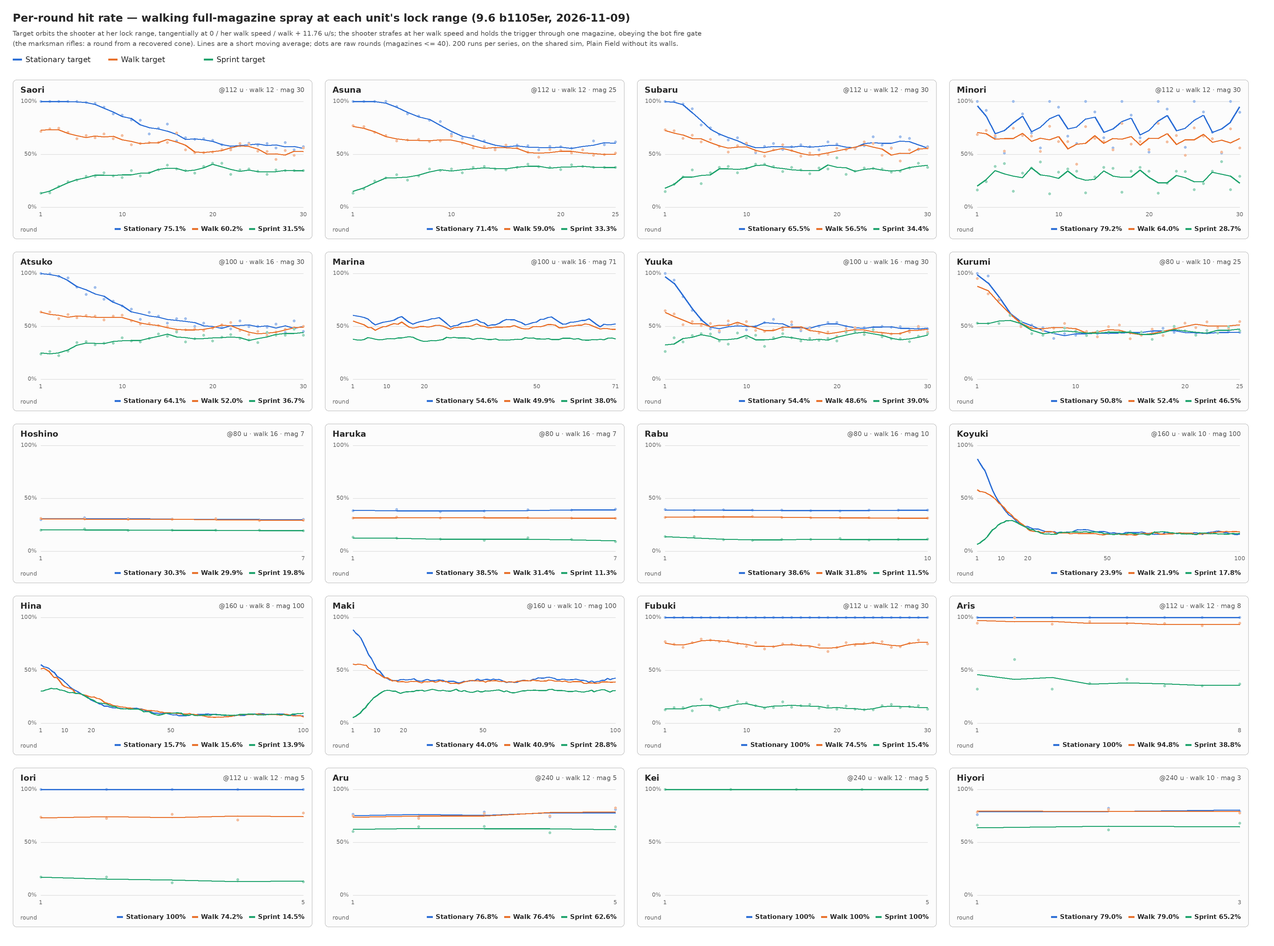
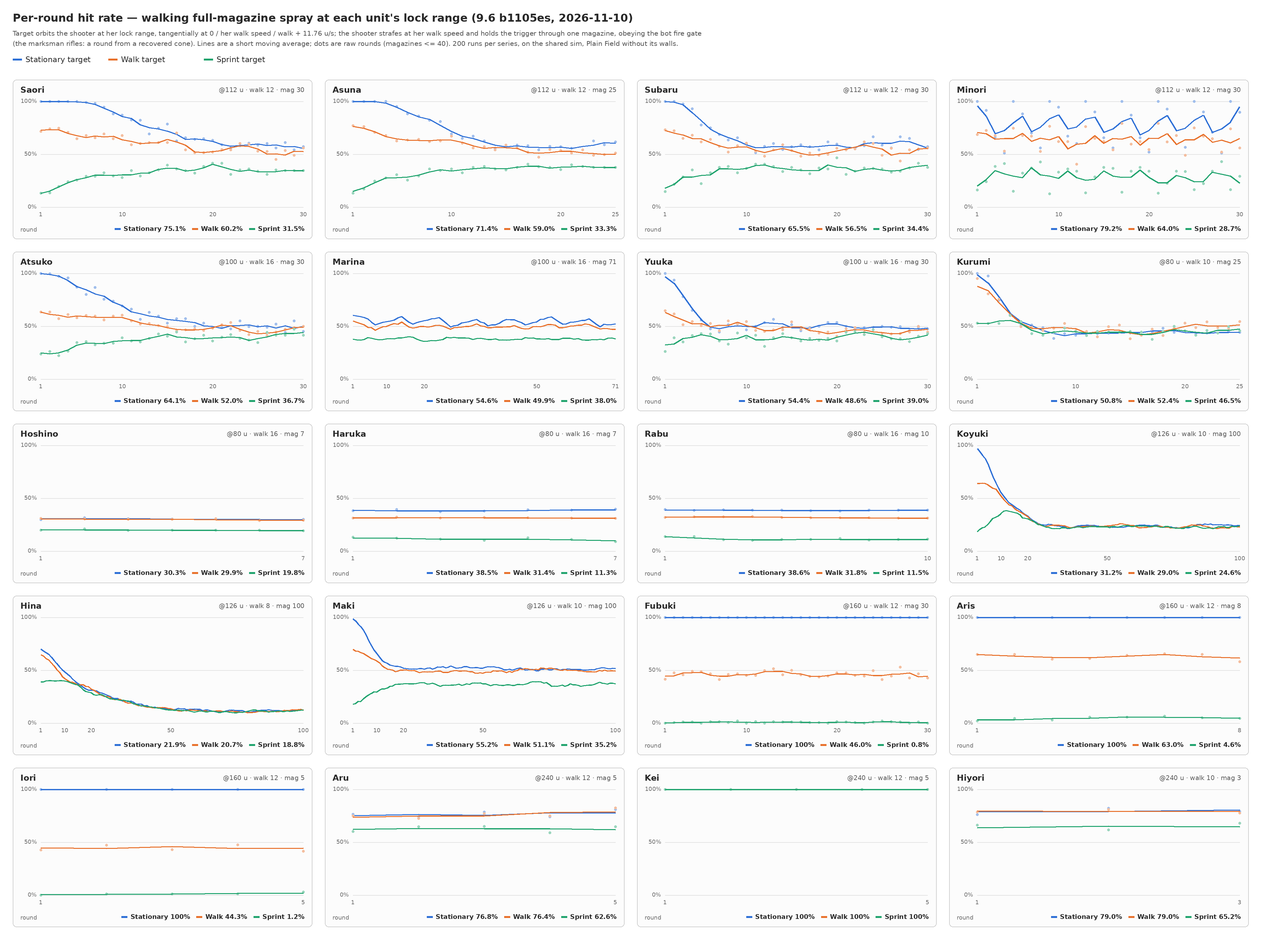
Lock ranges: the machine guns 126, the marksman rifles 160 (b1105es)
User: "1. change Maki/Hina/Koyuki Lockrange to 126 2. change Iori/Aris/Fubuki
Lockrange to 160 3. Implement in PT and 9.6 (online and offline)."

- lockRange 126 for Koyuki, Hina and Maki (unit12, unit5, unit21; 160
  until now) and 160 for Fubuki, Aris and Iori (unit10, unit7, unit20;
  112), in the shared table (the server's sim, online) and the client's
  (offline).
- Bots now hold 119-133 with a machine gun and 153-167 with a rifle; the
  picker's RANGE pips show four for the rifles (three until now). The
  shotgun-facing band, Sudden Death, the cones and the bot fire gate are
  unchanged: a rifle bot still fires each round from a recovered cone.
- shared/tools/hitcurve.mjs: a gun that refills a round at a time also
  counts a round when a projectile leaves without the magazine count
  going down. Aris's 1.2 s refill had hidden every other shot from the
  count; no other unit was affected.
- README: entry; the Units chapter's lock ranges and bands, and the
  hit-rate rows and chart for the six, re-measured at 200 runs a series.
- Aris's client-copy note on her 64-long bolt brought up to date.
- Build tag b1105es.

Claude-Session: https://claude.ai/code/session_01WRmaW8Rcy6Uy3N3ztRYSCo

diff --git a/client/src/main.js b/client/src/main.js
@@ -265,7 +265,7 @@ const UNIT_DATA = {
     jumpBoostCost: 48,
 
     // Weapon spec
-    lockRange: 160,   // (PT b1105ed, 9.6 b1105eg, user 2026-11-09: "multiply all existing LR settings by 2 times"; 80 until then)
+    lockRange: 126,   // (PT and 9.6 b1105es, user 2026-11-10: "change Maki/Hina/Koyuki Lockrange to 126"; 160 since b1105eg, 80 until then)
     botGateWidth: 0,          // no bloom gate line in either mode (0% hit-rate threshold; owner 2026-09-25, 1v1 first then 2v2 the same day) — sprays the full magazine on the burst / rest rhythm
     projectileSpeed: 1100,   // (PT b1105ed, 9.6 b1105eg, user 2026-11-09: "Change all AR/SMG/MG/Rifle bullet speed to 1100"; 600 until then)
     firePerMinute: 1250,       // = 48 ms cooldown — 48 ms tick slot (20.8/s), one real tier above the 64 ms guns
@@ -344,7 +344,7 @@ const UNIT_DATA = {
     airJumpBoostCost: 12,
 
     // Weapon spec
-    lockRange: 112,   // (PT b1105ed, 9.6 b1105eg, user 2026-11-09: "multiply all existing LR settings by 2 times"; 56 until then)
+    lockRange: 160,   // (PT and 9.6 b1105es, user 2026-11-10: "change Iori/Aris/Fubuki Lockrange to 160"; 112 since b1105eg, 56 until then)
     projectileSpeed: 1100,   // (PT b1105ed, 9.6 b1105eg, user 2026-11-09: "Change all AR/SMG/MG/Rifle bullet speed to 1100"; 600 until then)
     firePerMinute: 180,        // ≈ 333.33 ms cooldown — 336 ms tick slot (2.98/s), one rung below the 240 ms shotguns (owner 2026-09-19, was 250)
     spreadCount: 1,
@@ -370,9 +370,10 @@ const UNIT_DATA = {
     flight: true,
     // Laser bolt: the projectile's hitbox is a thin 64-long cylinder and the
     // transparent bright-cyan visual is that exact shape (both derive from
-    // this one entry, so they can never drift apart). NOTE: 64 exceeds her
-    // lock range (56), so in-band hits land with a partially grown body —
-    // the grow-out-of-the-muzzle rule keeps that honest at every distance.
+    // this one entry, so they can never drift apart). NOTE: 64 exceeded her
+    // lock range until it was doubled (56), so in-band hits landed with a
+    // partially grown body; at her 160 (b1105es) they land with the whole
+    // body. The grow-out-of-the-muzzle rule keeps that honest at every distance.
     beamBolt: { length: 64, radius: 0.4 }
   },
   unit8: {
@@ -477,7 +478,7 @@ const UNIT_DATA = {
     // Weapon spec — Aris-derived, tuned 2026-07-14: ordinary bullet (no
     // laser bolt), heavier per-shot chunk on a 30-round mag with a slow
     // manual reload.
-    lockRange: 112,   // (PT b1105ed, 9.6 b1105eg, user 2026-11-09: "multiply all existing LR settings by 2 times"; 56 until then)
+    lockRange: 160,   // (PT and 9.6 b1105es, user 2026-11-10: "change Iori/Aris/Fubuki Lockrange to 160"; 112 since b1105eg, 56 until then)
     projectileSpeed: 1100,   // (PT b1105ed, 9.6 b1105eg, user 2026-11-09: "Change all AR/SMG/MG/Rifle bullet speed to 1100"; 600 until then)
     firePerMinute: 180,        // ≈ 333.33 ms cooldown — 336 ms tick slot (2.98/s), one rung below the 240 ms shotguns (owner 2026-09-19, was 250)
     spreadCount: 1,
@@ -553,7 +554,7 @@ const UNIT_DATA = {
     // Weapon spec — Hina-derived, tuned 2026-07-14/15: slower cadence with
     // HA anti-dodge scatter, smaller mag, quicker reload, and AR-grade heavy
     // stun — at ~10 hits/s her chain-slow is the identity Hina can't match.
-    lockRange: 160,   // (PT b1105ed, 9.6 b1105eg, user 2026-11-09: "multiply all existing LR settings by 2 times"; 80 until then)
+    lockRange: 126,   // (PT and 9.6 b1105es, user 2026-11-10: "change Maki/Hina/Koyuki Lockrange to 126"; 160 since b1105eg, 80 until then)
     botGateWidth: 0,          // no bloom gate line in either mode (0% hit-rate threshold; owner 2026-09-25, 1v1 first then 2v2 the same day) — sprays the full magazine on the burst / rest rhythm
     projectileSpeed: 1100,   // (PT b1105ed, 9.6 b1105eg, user 2026-11-09: "Change all AR/SMG/MG/Rifle bullet speed to 1100"; 600 until then)
     firePerMinute: 600,        // = 100 ms cooldown — 112 ms tick slot (8.9/s), below Saori's 96 ms rung
@@ -819,7 +820,7 @@ const UNIT_DATA = {
 
     // Weapon spec: Fubuki's rifle with a bolt-action's beat: a 0.75 s forced cooldown after every shot (the cooldown clip spans it),
     // a magazine of 5; Fubuki's accuracy and bloom, her bullet (the one spindle every single round flies) and her trail
-    lockRange: 112,   // (PT b1105ed, 9.6 b1105eg, user 2026-11-09: "multiply all existing LR settings by 2 times"; 56 until then)
+    lockRange: 160,   // (PT and 9.6 b1105es, user 2026-11-10: "change Iori/Aris/Fubuki Lockrange to 160"; 112 since b1105eg, 56 until then)
     projectileSpeed: 1100,   // (PT b1105ed, 9.6 b1105eg, user 2026-11-09: "Change all AR/SMG/MG/Rifle bullet speed to 1100"; 600 until then)
     firePerMinute: 80,         // = 750 ms cooldown per shot (user: "a forced cool down per shot like sniper class, 0.5sec"; PT b1105de: "change
                                // the cooldown time from 0.5sec to 0.75sec")
@@ -859,7 +860,7 @@ const UNIT_DATA = {
     jumpBoostCost: 48,
 
     // Weapon spec: the user's numbers; the reach, the bullet and the bots' rules are Koyuki's
-    lockRange: 160,   // (PT b1105ed, 9.6 b1105eg, user 2026-11-09: "multiply all existing LR settings by 2 times"; 80 until then)
+    lockRange: 126,   // (PT and 9.6 b1105es, user 2026-11-10: "change Maki/Hina/Koyuki Lockrange to 126"; 160 since b1105eg, 80 until then)
     botGateWidth: 0,          // no bloom gate line, as the other machine guns
     projectileSpeed: 1100,   // (PT b1105ed, 9.6 b1105eg, user 2026-11-09: "Change all AR/SMG/MG/Rifle bullet speed to 1100"; 600 until then)
     firePerMinute: 500,        // = 120 ms cooldown — 128 ms tick slot
@@ -7455,7 +7456,7 @@ const OWN_SHOT_SAME_SHOT_MS = 1000;       // older server without the shot count
 // Build tag, printed in the own-shot console tally so a stale deploy or
 // cache can be told from a live one (it was shown in the tab title for a
 // day; the owner had it taken off the tab, 2026-10-15).
-const CLIENT_BUILD_TAG = 'b1105er 11-09';
+const CLIENT_BUILD_TAG = 'b1105es 11-10';
 
 // Called after every prediction tick — the forward tick in runPredictionTick
 // and each replayed tick in applySnapshotToPrediction: every own single

diff --git a/shared/src/sim/constants.js b/shared/src/sim/constants.js
@@ -182,7 +182,7 @@ export const UNIT_DATA = {
     jumpBoostCost: 48,
 
     // Weapon spec
-    lockRange: 160,   // (PT b1105ed, 9.6 b1105eg, user 2026-11-09: "multiply all existing LR settings by 2 times"; 80 until then)
+    lockRange: 126,   // (PT and 9.6 b1105es, user 2026-11-10: "change Maki/Hina/Koyuki Lockrange to 126"; 160 since b1105eg, 80 until then)
     botGateWidth: 0,          // no bloom gate line in either mode (0% hit-rate threshold; owner 2026-09-25, 1v1 first then 2v2 the same day) — sprays the full magazine on the burst / rest rhythm
     projectileSpeed: 1100,   // (PT b1105ed, 9.6 b1105eg, user 2026-11-09: "Change all AR/SMG/MG/Rifle bullet speed to 1100"; 600 until then)
     firePerMinute: 1250,       // = 48 ms cooldown — 48 ms tick slot (20.8/s), one real tier above the 64 ms guns
@@ -256,7 +256,7 @@ export const UNIT_DATA = {
     airJumpBoostCost: 12,
 
     // Weapon spec
-    lockRange: 112,   // (PT b1105ed, 9.6 b1105eg, user 2026-11-09: "multiply all existing LR settings by 2 times"; 56 until then)
+    lockRange: 160,   // (PT and 9.6 b1105es, user 2026-11-10: "change Iori/Aris/Fubuki Lockrange to 160"; 112 since b1105eg, 56 until then)
     projectileSpeed: 1100,   // (PT b1105ed, 9.6 b1105eg, user 2026-11-09: "Change all AR/SMG/MG/Rifle bullet speed to 1100"; 600 until then)
     firePerMinute: 180,        // ≈ 333.33 ms cooldown — 336 ms tick slot (2.98/s), one rung below the 240 ms shotguns (owner 2026-09-19, was 250)
     spreadCount: 1,
@@ -376,7 +376,7 @@ export const UNIT_DATA = {
     // Weapon spec — Aris-derived, tuned 2026-07-14: ordinary bullet (no
     // laser bolt), heavier per-shot chunk on a 30-round mag with a slow
     // manual reload.
-    lockRange: 112,   // (PT b1105ed, 9.6 b1105eg, user 2026-11-09: "multiply all existing LR settings by 2 times"; 56 until then)
+    lockRange: 160,   // (PT and 9.6 b1105es, user 2026-11-10: "change Iori/Aris/Fubuki Lockrange to 160"; 112 since b1105eg, 56 until then)
     projectileSpeed: 1100,   // (PT b1105ed, 9.6 b1105eg, user 2026-11-09: "Change all AR/SMG/MG/Rifle bullet speed to 1100"; 600 until then)
     firePerMinute: 180,        // ≈ 333.33 ms cooldown — 336 ms tick slot (2.98/s), one rung below the 240 ms shotguns (owner 2026-09-19, was 250)
     spreadCount: 1,
@@ -449,7 +449,7 @@ export const UNIT_DATA = {
     // Weapon spec — Hina-derived, tuned 2026-07-14/15: slower cadence with
     // HA anti-dodge scatter, smaller mag, quicker reload, and AR-grade heavy
     // stun — at ~10 hits/s her chain-slow is the identity Hina can't match.
-    lockRange: 160,   // (PT b1105ed, 9.6 b1105eg, user 2026-11-09: "multiply all existing LR settings by 2 times"; 80 until then)
+    lockRange: 126,   // (PT and 9.6 b1105es, user 2026-11-10: "change Maki/Hina/Koyuki Lockrange to 126"; 160 since b1105eg, 80 until then)
     botGateWidth: 0,          // no bloom gate line in either mode (0% hit-rate threshold; owner 2026-09-25, 1v1 first then 2v2 the same day) — sprays the full magazine on the burst / rest rhythm
     projectileSpeed: 1100,   // (PT b1105ed, 9.6 b1105eg, user 2026-11-09: "Change all AR/SMG/MG/Rifle bullet speed to 1100"; 600 until then)
     firePerMinute: 600,        // = 100 ms cooldown — 112 ms tick slot (8.9/s), below Saori's 96 ms rung
@@ -704,7 +704,7 @@ export const UNIT_DATA = {
 
     // Weapon spec: Fubuki's rifle with a bolt-action's beat: a 0.75 s forced cooldown after every shot (the cooldown clip spans it),
     // a magazine of 5; Fubuki's accuracy and bloom, her bullet (the one spindle every single round flies) and her trail
-    lockRange: 112,   // (PT b1105ed, 9.6 b1105eg, user 2026-11-09: "multiply all existing LR settings by 2 times"; 56 until then)
+    lockRange: 160,   // (PT and 9.6 b1105es, user 2026-11-10: "change Iori/Aris/Fubuki Lockrange to 160"; 112 since b1105eg, 56 until then)
     projectileSpeed: 1100,   // (PT b1105ed, 9.6 b1105eg, user 2026-11-09: "Change all AR/SMG/MG/Rifle bullet speed to 1100"; 600 until then)
     firePerMinute: 80,         // = 750 ms cooldown per shot (user: "a forced cool down per shot like sniper class, 0.5sec"; PT b1105de: "change
                                // the cooldown time from 0.5sec to 0.75sec")
@@ -742,7 +742,7 @@ export const UNIT_DATA = {
     jumpBoostCost: 48,
 
     // Weapon spec: the user's numbers; the reach, the bullet and the bots' rules are Koyuki's
-    lockRange: 160,   // (PT b1105ed, 9.6 b1105eg, user 2026-11-09: "multiply all existing LR settings by 2 times"; 80 until then)
+    lockRange: 126,   // (PT and 9.6 b1105es, user 2026-11-10: "change Maki/Hina/Koyuki Lockrange to 126"; 160 since b1105eg, 80 until then)
     botGateWidth: 0,          // no bloom gate line, as the other machine guns
     projectileSpeed: 1100,   // (PT b1105ed, 9.6 b1105eg, user 2026-11-09: "Change all AR/SMG/MG/Rifle bullet speed to 1100"; 600 until then)
     firePerMinute: 500,        // = 120 ms cooldown — 128 ms tick slot

diff --git a/README.md b/README.md
@@ -203,6 +203,8 @@ Both offline and online pickers carry them:
 **The spindle 1.5 times as thick and 1.8 times as long** (b1105ek, 2026-11-09, 9.6, offline and online; from PT's b1105eh to b1105ek; user: "粗 2 倍、長 1.8 倍. Apply to PT first.", then "2 倍粗 is a bit too much. change it to 1.5 times instead", "change 1.8 倍長 to 1.5 times as well", then "revert the length from 1.5 times to 1.8 times. Implement in 9.6 as well, offline and online") — the one spindle every single-round gun flies (the autos, the rifles and the snipers; the shotgun pellets and Aris's bolt keep their own): `SNIPER_TRACER_MID_RADIUS` 0.225 (0.15), `SNIPER_TRACER_LENGTH` 36.72 (20.4). Visual only, and the same offline and online: both draw it with buildProjectileMesh, and the hit test, the client's offline one and the server's alike, sweeps the round's point (the spindle's front tip) along its path, never the mesh. It still grows out of the muzzle, its length the distance flown up to the full 36.72, so at 1100 u/s its tail leaves the muzzle after 33 ms, as a 600 u/s round's did with 20.4. Why: with the rounds at 1100 and the fights twice as far (b1105eg), an AR round seen from the chase camera at 1920 x 1080 stood out for one 60 fps frame instead of three and was about 5 pixels just before the hit; at this size it shows about 253 pixels instead of 104 in the frame after it clears the shooter's own body, and about 15 just before the hit.
 
 **Hina's spread cap 0.20** (b1105er, 2026-11-09, 9.6, offline and online; from PT's b1105el to b1105er, which tried 0.30 with other bloom settings and settled on this cap with her own; user: "Implement Hina's SA cap 0.2 in 9.6 as well") — unit5's `bloomCap` 0.20 (0.14) in the shared table (the server's sim, online) and the client's (offline); her base cone 0.04, her 0.003 a round and her recovery of 0.03 a second 200 ms behind her last round as they were. Firing on the move her MG42's cone now opens on to 0.20, reached after 54 rounds (2.6 s) where 0.14 came after 34; the sure-hit distance at the cap 16 instead of 23. A Hina standing still fires without bloom by the game's rule, so a still MG42 is as it was; her spray picture on the picker is unchanged (its 26 rounds stop inside the frame before either cap).
+
+**The machine guns' lock range 126, the marksman rifles' 160** (b1105es, 2026-11-10, PT and 9.6, online and offline; user: "1. change Maki/Hina/Koyuki Lockrange to 126 2. change Iori/Aris/Fubuki Lockrange to 160 3. Implement in PT and 9.6 (online and offline).") — `lockRange` 126 for Koyuki, Hina and Maki (unit12, unit5, unit21; 160 since b1105eg) and 160 for Fubuki, Aris and Iori (unit10, unit7, unit20; 112 since b1105eg), in the shared table (the server's sim, online) and the client's (offline). The lock range steers the bots: their band, lock range ± 7, is 119–133 for the machine guns (153–167 until now) and 153–167 for the marksman rifles (105–119), and the firing-position search's reach, 2.5 times the band's upper edge, moves with it (333 and 418 u); a bot against a target that stands still on an open field holds at 119–126 with a machine gun and at 160 with a rifle. The RANGE pips on the picker's side card follow the lock range: four for the rifles (three until now), four still for the machine guns. Unchanged: the band against a shotgun (at least 110, which both classes pass), Sudden Death (its reach is the cone's), the red-lock flag (it only feeds the homing, which is off), the cones and the bot fire gate: the rifles' gate line, their base cone's sure-hit line, is 160, so a rifle bot still fires every round from a fully recovered cone, past the line as its one-round suppress burst. The six were re-measured for the Units chapter's hit-rate table (still / walking / sprinting target, mean over a magazine): Koyuki 31 / 29 / 25 at 126 (24 / 22 / 18 at 160), Hina 22 / 21 / 19 (16 / 16 / 14), Maki 55 / 51 / 35 (44 / 41 / 29); Fubuki 100 / 46 / 1 at 160 (100 / 75 / 15 at 112), Aris 100 / 63 / 5 (100 / 93 / 37), Iori 100 / 44 / 1 (100 / 74 / 14) — at 160 a round flies 0.15 s, in which a walking target moves about the capsule's half-width and a sprinter twice that. And the harness's shot count is fixed (shared/tools/hitcurve.mjs): it counted a round when the magazine went down, and Aris's 1.2 s refill lands on every other shot of her ~0.6 s gate rhythm, so the count missed those shots and gave their bolts to the round before (her b1105er row read 95 / 39 on the walking and sprinting targets for 93 / 37) and, past her gate line, never spent her one-round suppress burst, so her next round left bloomed; a gun that refills a round at a time now also counts a round when a projectile leaves without the count going down. The other nineteen were never affected: none missed a shot in a check of 20 runs a series.
 **Hiyori joins** (b1105cy to b1105da, 2026-11-08, PT and 9.5; user: "Add unit \"Hiyori\" into PT. Give her Aru stats with below differences", then "Change Hiyori damage scale from \"60/40/25\" to \"60/40/20\"" and "Update unit Hiyori to 9.5") — unit19 in both unit tables: Aru's stats with `weapon: 'NTW-20'`, `damage: 60`, `rangeDamage` near 20 / mid 40, `magCapacity: 3`, no `crouchHit`. Her model, client/public/models/hiyori_v2.glb (the user's Hiyori without her backpack case, her Formation_Idle, the swimsuit Hiyori's seven battle motions bound by exact bone names, her hair following her Formation_Idle, Saori's jump, Fubuki's dodge); `UNIT_MODELS.hiyori`: Normal_Idle to stand, Kneel_Attack_Start to dodge, Move_Jump to jump. A new clip key, `cooldown` (fit 'cooldown'): updateUnitModelState plays Normal_Attack_Delay from the shot to the end of her 1 s fire cooldown, one cycle, over walking and standing; the reload, a dodge, a jump or a sprint take its place, and an emptied magazine goes straight to the reload. Her pictures: units/hiyori_profile.png, units/hiyori_profile_thumbnail.png (UNIT_FACE 0.56 / 0.47), weapons/hiyori.png (WEAPON_BOX 158, 20, 712 x 206). Online the server reads her from the shared table; nothing new rides a snapshot.
 **Dodging while firing faces the dodge, offline and online** (b1105cr, b1105cx, 2026-11-08, 9.5; user: "When the character is doing dodge+firing+motion input. Make the character facing the dodging direction instead of facing target. Once the dodge animation is over and the character is still firing, face at the target again. Also, if \"dodge+firing+motion\" is airborne, the character still faces the target.", then "implement the dodge facing direction update in 9.5. Online and offline.") — a player's dodge on the ground whose line the stick chose turns the model to that line while the unit fires, over its target and the free-pov crosshair; when the dodge ends the firing rule turns it back, at the usual MODEL_TURN_RATE. Offline the line is stamped where the dodge starts (updatePlayer: `stepFaceAt`/`stepFaceX`/`stepFaceZ`). Online the server marks the dodge: tick.js applyInput sets the fighter's `stepStick` when the stick chose the line, tryStartStep and tickStep clear it to undefined, so the snapshot carries the key only while such a dodge runs; mirrorFighterToMech reads it with the dodge's line (stepTo minus stepFrom), so every client turns that player's model. Untouched: a dodge with no stick, a dodge in the air, a dodge without firing, the bots. Only the model turns: the rounds, the hit capsule and the bots' reading are as before. Tests: 185 of 185.
 **Hina dodges with Fubuki's motion** (b1105cw, 2026-11-08, PT and 9.5; user: "Apply Fubuki's dodge motion to Hina. Implement in PT and 9.5.") — her `dodge` borrows fubuki_dodge_clip.json (Fubuki's Kneel_Attack_Start) with `base: 'Move_End_Normal'`, her own clip, which still poses her MG42, jacket and wings; 32 of her 44 body bones take Fubuki's rotations, the rest (helper bones, toes) keep her own. Her jump stays Saori's (b1105ck). Her clips crossfade (MODEL_FADE_S).
@@ -306,9 +308,9 @@ The alternative to the classic chase camera (2026-08-21): a tilt-shift **diorama
 
 ## Units
 
-Twenty pickable units (Mika, Unit 8, is hidden from every picker), near-identical base stats (100 HP — Kurumi 120; 250 boost; 11.76 sprint base; the walk speed is per unit since 2026-09-24, in the table). The tables are 9.6's as of b1105er (2026-11-09):
+Twenty pickable units (Mika, Unit 8, is hidden from every picker), near-identical base stats (100 HP — Kurumi 120; 250 boost; 11.76 sprint base; the walk speed is per unit since 2026-09-24, in the table). The tables are 9.6's as of b1105es (2026-11-10):
 
-**Weapons** (every lock range doubled and the 2v2 values gone since b1105eg; the AR / SMG / MG / rifle rounds at 1100 and the shotguns' at 500 since the same build):
+**Weapons** (every lock range doubled and the 2v2 values gone since b1105eg; the AR / SMG / MG / rifle rounds at 1100 and the shotguns' at 500 since the same build; the machine guns at 126 and the rifles at 160 since b1105es):
 
 | | Walk | Mag | Damage | Fire rate | Projectile speed | Lock range | Reload |
 |---|---|---|---|---|---|---|---|
@@ -323,12 +325,12 @@ Twenty pickable units (Mika, Unit 8, is hidden from every picker), near-identica
 | Unit 2 — Shotgun (Hoshino) | 16 | 7 | 4 × 8 pellets | ~250 RPM | 500 | 80 | 1.2 s (auto, per round) |
 | Unit 11 — Shotgun (Haruka) | 16 | 7 | 4 × 8 pellets | ~250 RPM | 500 | 80 | 1.2 s (auto, per round) |
 | Unit 18 — Shotgun (Rabu) | 16 | 10 | 4 × 8 pellets | ~250 RPM | 500 | 80 | 2 s (magazine) |
-| Unit 12 — Machine Gun (Koyuki) | 10 | 100 | 4.5 / shot | ~600 RPM | 1100 | 160 | 5 s |
-| Unit 5 — Machine Gun (Hina) | 8 | 100 | 4 / shot | ~1250 RPM | 1100 | 160 | 5 s |
-| Unit 21 — Machine Gun (Maki) | 10 | 100 | 4.5 / shot | ~500 RPM | 1100 | 160 | 5 s |
-| Unit 10 — Rifle (Fubuki) | 12 | 30 | 10 / shot | ~180 RPM | 1100 | 112 | 2 s |
-| Unit 7 — Rifle (Aris) | 12 (flies) | 8 | 12 / bolt | ~180 RPM | 1100 | 112 | 1.2 s (auto, per round) |
-| Unit 20 — Rifle (Iori) | 12 | 5 | 13 / shot | 80 RPM (a forced 0.75 s cooldown per shot) | 1100 | 112 | 2 s |
+| Unit 12 — Machine Gun (Koyuki) | 10 | 100 | 4.5 / shot | ~600 RPM | 1100 | 126 | 5 s |
+| Unit 5 — Machine Gun (Hina) | 8 | 100 | 4 / shot | ~1250 RPM | 1100 | 126 | 5 s |
+| Unit 21 — Machine Gun (Maki) | 10 | 100 | 4.5 / shot | ~500 RPM | 1100 | 126 | 5 s |
+| Unit 10 — Rifle (Fubuki) | 12 | 30 | 10 / shot | ~180 RPM | 1100 | 160 | 2 s |
+| Unit 7 — Rifle (Aris) | 12 (flies) | 8 | 12 / bolt | ~180 RPM | 1100 | 160 | 1.2 s (auto, per round) |
+| Unit 20 — Rifle (Iori) | 12 | 5 | 13 / shot | 80 RPM (a forced 0.75 s cooldown per shot) | 1100 | 160 | 2 s |
 | Unit 3 — Sniper Rifle (Aru) | 12 | 5 | 50 / 35 / 20 by range | 60 RPM | 4000 | 240 | 2.5 s + 1 s charge |
 | Unit 6 — Sniper Rifle (Kei) | 12 | 5 | 30 / beam (charged sweep: 20) | 60 RPM | instant (hitscan) | 240 | 2.5 s + 1 s charge |
 | Unit 19 — Sniper Rifle (Hiyori) | 10 | 3 | 60 / 40 / 20 by range | 60 RPM | 4000 | 240 | 2.5 s + 1 s charge |
@@ -397,11 +399,11 @@ Units 19 to 22 (2026-11-08, PT then 9.5) each grew from a unit already in the ga
 
 **Reading the spread columns (2026-09-22, spread bloom — ported from the demo line, owner questionnaire):** every cone angle is in radians and describes the FULL cone — a shot deviates from the aim line by at most half of it. Horizontal spread (HA) is gone from every unit. Instead each shot **blooms** the cone: firing adds *Bloom / shot* to the gun's spread, up to *SA cap*, and once the *Recovery* delay has passed since the last shot the extra spread drains back at the listed rate (the marksman rifles — Fubuki, Aris and Iori — recover between the shots of a burst too — *no delay* — which is what shapes them: Fubuki's or Aris's second quick shot leaves at 0.063 rather than 0.02). Since angular error grows with distance, a cone has a **sure-hit distance** against a standing target — 3.2 ÷ spread, 3.2 being the hit capsule's width — inside which every shot lands; beyond it, hit chance falls off roughly as sure-hit ÷ distance. The table gives it at the base cone and at the cap: a fresh trigger pull is pin-point, a long spray is not, and tapping keeps a gun near its base numbers. **Standing still is the other way to stay pin-point**: a shooter that has stood on the ground at under 1 unit/s for 200 ms fires without adding bloom, and whatever bloom it carried drains at the gun's recovery rate even while it keeps firing — the price is being a stationary target. **Sprinting is never standing still** (user 2026-11-03): sprint held with no direction keeps the unit where it is, but its shots bloom as a moving unit's do — shot for shot the same bloom as a walk or a sprint with a direction across open ground, one *Bloom / shot* a round and never more (`tickStillness` takes the sprint as one more reason to clear the stamp; before, the unit's zero speed counted it as still and its shots had no bloom). The sprint lasts as long as the gauge does: held in place from a full gauge it runs dry in about 3.6 s on a map at boost scale 1 (18 s on the 5× maps), the sprint ends there, and a unit still holding the key in place counts as standing again, as it always did. So does a sprint pressed into a wall or sliding along one: a wall's push-out zeroes the body's velocity, which used to count a sprinter there as still too. The sprint lock's 180 ms release grace is part of the sprint: after a lock stop the 200 ms standing dwell starts when the grace ends (still about 0.4 s after the stick is let go, about 0.2 s before this change); a held sprint key let go together with the stick glides to a stop and reaches it in about half a second, as before. The shotguns ignore the cones entirely: their pellets fly a fixed 8-point pattern that opens toward ~5.8 wide over the first 70 units of flight — at their 80 lock range it is fully open (it was a tight ~3.3-wide cluster at the old 40), and the volley dies at 100; Hoshino's pattern is additionally stretched 1.4× horizontally (details below).
 
-**Preferred engage distance:** every unit's fighting range is its **lock range ± 7** — the band where bots hold position, orbit, and fire: the shotguns and Kurumi 73–87, the other SMGs 93–107, the assault rifles and rifles 105–119, the machine guns 153–167, the snipers 233–247. One rule for all weapons: retune a lock range and the combat distance follows. **Since b1105eg (2026-11-09) it is one rule for both modes too**: every lock range was doubled and the 2v2 values were removed, so a 2v2 bot holds the same band as a 1v1 bot (until then a second, 2v2 number compressed the 2v2 bands into 50–70, so long-lock units would not hang back while a teammate died alone at the front). **Facing a shotgun** (b1105br): while a bot's current target is an enemy shotgun its band centres on at least 110 (`BOT_SHOTGUN_ENGAGE_RANGE`; a longer lock range of its own stays, a shotgun bot keeps its own, Sudden Death is untouched) — since the doubling that lifts only the SMGs and Kurumi. The player-side lock reticle reads the unit's lock range.
+**Preferred engage distance:** every unit's fighting range is its **lock range ± 7** — the band where bots hold position, orbit, and fire: the shotguns and Kurumi 73–87, the other SMGs 93–107, the assault rifles 105–119, the machine guns 119–133, the marksman rifles 153–167, the snipers 233–247 (since b1105es, 2026-11-10; the machine guns held 153–167 and the rifles 105–119 until then). One rule for all weapons: retune a lock range and the combat distance follows. **Since b1105eg (2026-11-09) it is one rule for both modes too**: every lock range was doubled and the 2v2 values were removed, so a 2v2 bot holds the same band as a 1v1 bot (until then a second, 2v2 number compressed the 2v2 bands into 50–70, so long-lock units would not hang back while a teammate died alone at the front). **Facing a shotgun** (b1105br): while a bot's current target is an enemy shotgun its band centres on at least 110 (`BOT_SHOTGUN_ENGAGE_RANGE`; a longer lock range of its own stays, a shotgun bot keeps its own, Sudden Death is untouched) — since the doubling that lifts only the SMGs and Kurumi. The player-side lock reticle reads the unit's lock range.
 
-**Measured hit rates** (re-measured 2026-11-09 on 9.6 b1105er — for b1105eg's doubled lock ranges and faster rounds, Hina's 0.20 cap and the four units added since the 2026-10-24 run; the harness is `shared/tools/hitcurve.mjs`, the chart `shared/tools/hitcurve_png.py`, both in the tree). Once a cone grows with every round, one percentage no longer describes a gun: what matters is **how the hit chance decays across a magazine while the shooter is on the move**. So the protocol is a walking full-magazine spray, run on the shared sim (the code the server runs) on Plain Field — its boundary walls taken away for the run, since the machine guns' 160 and the snipers' 240 now reach past the 240 × 240 field — 200 runs per series:
+**Measured hit rates** (re-measured 2026-11-09 on 9.6 b1105er — for b1105eg's doubled lock ranges and faster rounds, Hina's 0.20 cap and the four units added since the 2026-10-24 run — and the machine guns and the marksman rifles again on 2026-11-10 at b1105es's lock ranges, 126 and 160, with the harness's shot count fixed for Aris's round-by-round refill; the harness is `shared/tools/hitcurve.mjs`, the chart `shared/tools/hitcurve_png.py`, both in the tree). Once a cone grows with every round, one percentage no longer describes a gun: what matters is **how the hit chance decays across a magazine while the shooter is on the move**. So the protocol is a walking full-magazine spray, run on the shared sim (the code the server runs) on Plain Field — its boundary walls taken away for the run, since the machine guns' 126, the marksman rifles' 160 and the snipers' 240 reach past the 240 × 240 field — 200 runs per series:
 
-- **Shooter:** strafes sideways at her own walk speed (16, 12 or 10 u/s; Hina 8), reversing every 400 ms so she is never still and every round blooms, and holds the trigger through **one whole magazine** (tap-fired for the shotguns and snipers; a charging sniper is rooted by the sim, as in play), **obeying the bot fire gate** (`botMayFire`). The marksman rifles' line — the 100% sure-hit line — closes inside their lock range, as before, so Fubuki, Aris and Iori fire from a fully recovered cone, exactly as their bots do. Since the doubled ranges the autos' 33%-hit line of the two guns that open to 0.11 closes inside theirs too: Minori at 112 and Marina at 100 hold fire while their cone is wider than it and fire again as it closes (Kurumi's line sits right at her 80). Every other gun's line stays beyond its lock range even at the cap, and the machine guns are ungated. Every unit fires from **her own lock range** only.
+- **Shooter:** strafes sideways at her own walk speed (16, 12 or 10 u/s; Hina 8), reversing every 400 ms so she is never still and every round blooms, and holds the trigger through **one whole magazine** (tap-fired for the shotguns and snipers; a charging sniper is rooted by the sim, as in play), **obeying the bot fire gate** (`botMayFire`). The marksman rifles' line — the 100% sure-hit line — stands at 160 for their base cone, their lock range since b1105es, and closes far inside it after a round, so Fubuki, Aris and Iori fire every round from a fully recovered cone (past the line as their one-round suppress burst), exactly as their bots do. Since the doubled ranges the autos' 33%-hit line of the two guns that open to 0.11 closes inside theirs too: Minori at 112 and Marina at 100 hold fire while their cone is wider than it and fire again as it closes (Kurumi's line sits right at her 80). Every other gun's line stays beyond its lock range even at the cap, and the machine guns are ungated. Every unit fires from **her own lock range** only.
 - **Target:** a real unit — the 3.2-wide hit capsule, not the Range's signs — ping-ponging on a ±35° arc at lock range around the shooter, so it always moves across the line of fire, at three speeds: standing, the shooter's own walk speed, and that walk speed + 11.76 (the sprint boost). Reversal at the arc ends is instant, so the speed never dips. Shots aim at the target's current position, exactly as the game does (no lead).
 - **Scoring:** every round is a hit or a miss (shotguns: pellets landed ÷ 8 per blast; Kei's beam counts as a round). Each curve is the hit chance of the *n*-th round of the magazine, averaged over the 200 runs; the numbers in the table are the mean over the whole magazine and, in brackets, the mean of its first third → last third.
 
@@ -420,19 +422,19 @@ Units 19 to 22 (2026-11-08, PT then 9.5) each grew from a unit already in the ga
 | Hoshino @80 · 7 rds | 30% (31→30) | 30% (31→29) | 20% (20→19) |
 | Haruka @80 · 7 rds | 38% (39→39) | 31% (32→31) | 11% (13→10) |
 | Rabu @80 · 10 rds | 39% (39→39) | 32% (32→31) | 11% (13→11) |
-| Koyuki @160 · 100 rds | 24% (37→17) | 22% (32→17) | 18% (20→17) |
-| Hina @160 · 100 rds | 16% (30→8) | 16% (30→8) | 14% (24→8) |
-| Maki @160 · 100 rds | 44% (51→41) | 41% (44→39) | 29% (26→31) |
-| Fubuki @112 · 30 rds | 100% (100→100) | 75% (76→75) | 15% (16→15) |
-| Aris @112 · 8 rds | 100% (100→100) | 95% (97→93) | 39% (46→36) |
-| Iori @112 · 5 rds | 100% (100→100) | 74% (74→78) | 14% (17→13) |
+| Koyuki @126 · 100 rds | 31% (46→24) | 29% (41→23) | 25% (28→22) |
+| Hina @126 · 100 rds | 22% (40→12) | 21% (37→11) | 19% (32→11) |
+| Maki @126 · 100 rds | 55% (63→51) | 51% (55→50) | 35% (32→37) |
+| Fubuki @160 · 30 rds | 100% (100→100) | 46% (46→46) | 1% (1→1) |
+| Aris @160 · 8 rds | 100% (100→100) | 63% (65→62) | 5% (3→5) |
+| Iori @160 · 5 rds | 100% (100→100) | 44% (43→42) | 1% (0→3) |
 | Aru @240 · 5 rds | 77% (77→81) | 76% (75→83) | 63% (60→65) |
 | Kei @240 · 5 rds | 100% (100→100) | 100% (100→100) | 100% (100→100) |
 | Hiyori @240 · 3 rds | 79% (76→79) | 79% (79→78) | 65% (66→68) |
 
-*Shotgun rows:* Hoshino fires the 1.4× wide fan, Haruka the concentrated cloud (the two swapped patterns on 2026-10-10), and Rabu carries Haruka's pattern on her 10-shell magazine. At their 80 lock the pattern is fully open, so even a standing target takes about a third of the pellets — at the old 40 it was half open and Haruka's cloud landed 78%. The picture is current (2026-11-09).
+*Shotgun rows:* Hoshino fires the 1.4× wide fan, Haruka the concentrated cloud (the two swapped patterns on 2026-10-10), and Rabu carries Haruka's pattern on her 10-shell magazine. At their 80 lock the pattern is fully open, so even a standing target takes about a third of the pellets — at the old 40 it was half open and Haruka's cloud landed 78%. The picture is current (2026-11-10).
 
-*Reading it:* the first→last gap is the bloom. **The assault rifles:** Saori and Asuna open a magazine at 94–97% on a standing target and close it near 58% — at 112 their capped 0.06 cone's sure-hit line (53) is half the range — and Subaru, the fastest bloom, runs 80→59. **Minori's sawtooth** is her gate: her 0.11 cone passes the 33% line after 4 rounds, and from then on she fires a round each time it closes back under it, so her rounds leave from cones between 0.02 and ~0.08 — 79% on a standing target, flat across the magazine, the best of the assault rifles over a whole magazine at the price of a slower one. **The SMGs** at 100: Atsuko 86→50 on a standing target, Yuuka 64→49, Marina flat at ~55 behind her gate; **Kurumi** at 80 holds the best sprinting number of the automatics, 46%: the shortest range, the least drift before the round arrives. **The machine guns** at 160: Koyuki's and Hina's cones reach their caps by round ~25 and ~55 and sit there at ~17% and ~8% — at 160 their capped cones' sure-hit lines are 27 and 16 u — while Maki's 0.06 cap holds ~40%. **The marksman rifles** never fire bloomed: 100% on a standing target; on a walking one 74–75% for the point bullets and 95% for Aris's laser bolt, whose 0.4 wider radius and whole 64-long body forgive more of the drift; on a sprinter 14–15% and 39%. **The snipers** at 240 shoot past the 160 sure-hit line of their 0.02 cone: Aru and Hiyori land ~77–79% on a standing or walking target and ~63–65% on a sprinter (the 4,000 u/s round crosses 240 u in 0.06 s); Kei's beam is instant, 100%. Against the 2026-10-24 run at the old ranges and speeds, every cone gun lost hit rate at the doubled distances (Saori 99 / 81 / 35 then, 75 / 60 / 31 now; Koyuki 49 / 44 / 30 then, 24 / 22 / 18 now), and the shotguns the most (Haruka 78 / 46 / 18 then, 38 / 31 / 11 now).
+*Reading it:* the first→last gap is the bloom. **The assault rifles:** Saori and Asuna open a magazine at 94–97% on a standing target and close it near 58% — at 112 their capped 0.06 cone's sure-hit line (53) is half the range — and Subaru, the fastest bloom, runs 80→59. **Minori's sawtooth** is her gate: her 0.11 cone passes the 33% line after 4 rounds, and from then on she fires a round each time it closes back under it, so her rounds leave from cones between 0.02 and ~0.08 — 79% on a standing target, flat across the magazine, the best of the assault rifles over a whole magazine at the price of a slower one. **The SMGs** at 100: Atsuko 86→50 on a standing target, Yuuka 64→49, Marina flat at ~55 behind her gate; **Kurumi** at 80 holds the best sprinting number of the automatics, 46%: the shortest range, the least drift before the round arrives. **The machine guns** at 126: Koyuki's and Hina's cones reach their caps by round ~25 and ~55 and sit there at ~23% and ~11% — at 126 their capped cones' sure-hit lines are 27 and 16 u — while Maki's 0.06 cap holds ~50%. **The marksman rifles** never fire bloomed: 100% on a standing target, their base cone's sure-hit line being their 160 lock range; on a walking one 44–46% for the point bullets and 63% for Aris's laser bolt, whose 0.4 wider radius and whole 64-long body forgive more of the drift; on a sprinter 1% and 5% — at 160 a round flies 0.15 s, in which a walking target moves about the capsule's half-width and a sprinter twice that. **The snipers** at 240 shoot past the 160 sure-hit line of their 0.02 cone: Aru and Hiyori land ~77–79% on a standing or walking target and ~63–65% on a sprinter (the 4,000 u/s round crosses 240 u in 0.06 s); Kei's beam is instant, 100%. Against the 2026-10-24 run at the old ranges and speeds, every cone gun lost hit rate at the longer distances (Saori 99 / 81 / 35 then, 75 / 60 / 31 now; Koyuki 49 / 44 / 30 then at 80, 31 / 29 / 25 now at 126), and the shotguns the most (Haruka 78 / 46 / 18 then, 38 / 31 / 11 now). Before b1105es the machine guns fought at 160 (Koyuki 24 / 22 / 18, Hina 16 / 16 / 14, Maki 44 / 41 / 29) and the marksman rifles at 112 (Fubuki 100 / 75 / 15, Aris 100 / 93 / 37, Iori 100 / 74 / 14; Aris's b1105er row read 95 / 39 on the moving targets, from a count that gave some of her rounds two bolts).
 
 Projectiles fly straight (homing is zeroed universally). The targeting reticle is an **enemy-firing indicator**, not a range indicator: green by default, it flashes red while your current target is firing and stays red for the whole time a sniper is mid-charge with you as the target (see the sniper section). Being inside lock range is not signalled to players at all — the number only shapes bot behavior (bots hold their engage band around it). A faint in-lock tracer tint that once keyed to it was removed 2026-08-01.
 
